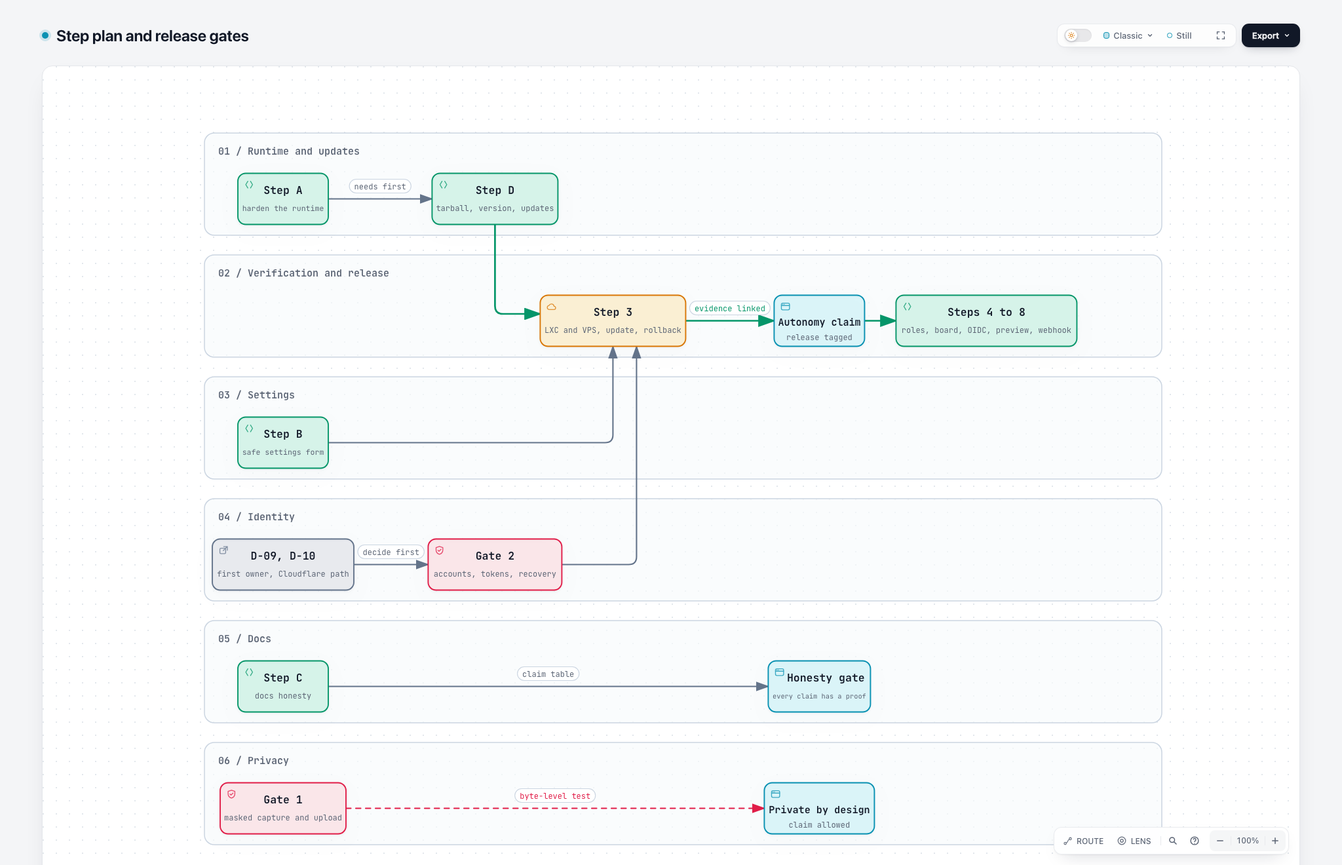
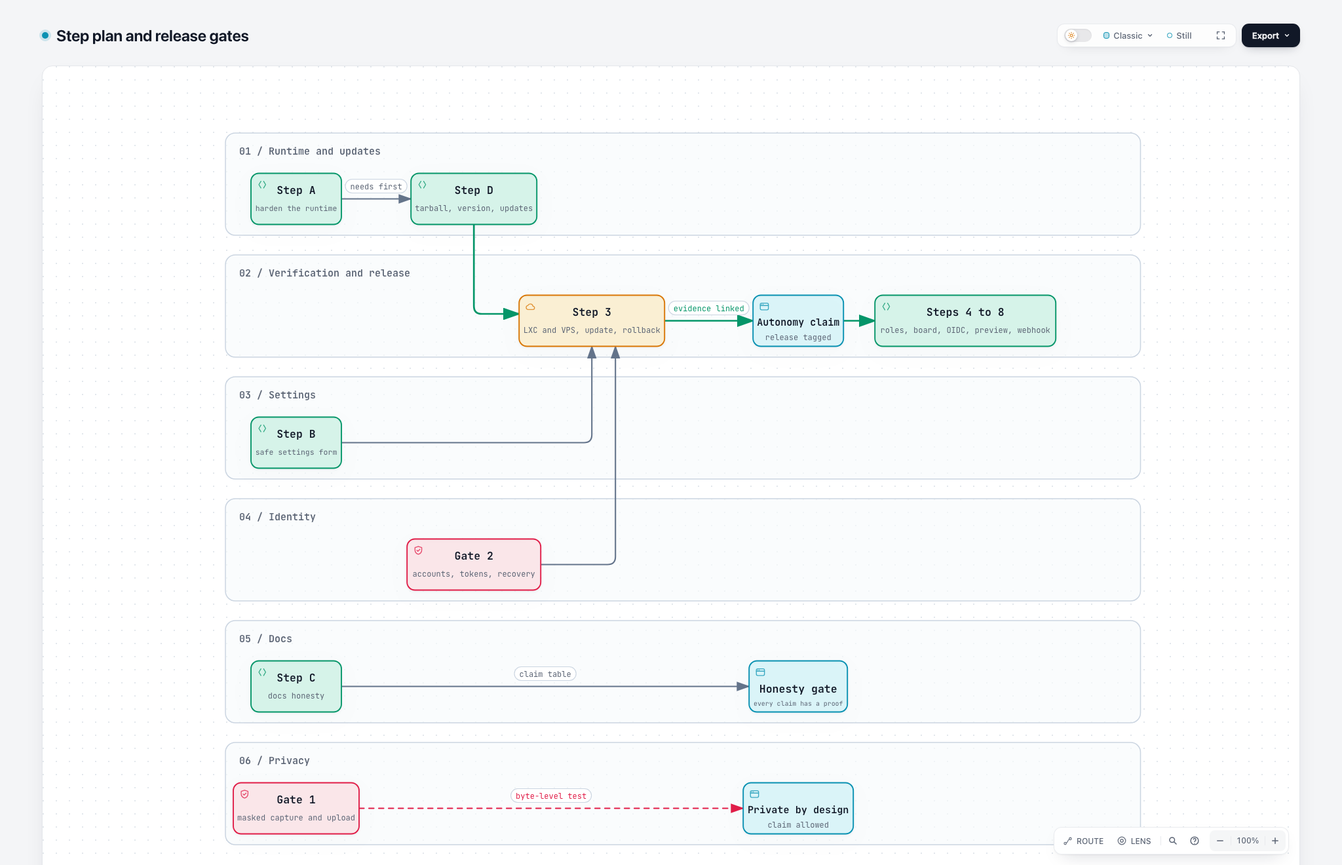
docs(design): settle D-09 and D-10 as S14 and S15
The first owner proves control with a one-time link printed by a host command
(a script with the operator's Cloudflare credentials on Cloudflare), the same
mechanism as recovery, with no static bootstrap secret. Cloudflare Access
stays an optional admin identity on the Cloudflare runtime. Updates the Gate 2
text, J3 and the bootstrap and step plan diagrams (the decision node is gone).
Documentation only.

diff --git a/docs/design/diagrams/step-plan.html b/docs/design/diagrams/step-plan.html
@@ -5203,7 +5203,7 @@ OTHER DEALINGS IN THE FONT SOFTWARE.
     <!-- Main Diagram -->
     <div class="diagram-container" data-detail-level="read"
          data-preset-badge-editorial-plate="ARCHIFY / PLATE 04">
-      <svg viewBox="0 0 1030 900" data-reader-fit="width-first" data-layout-contract="readable-v2" role="img" lang="en" aria-labelledby="archify-diagram-title archify-diagram-description" data-animation="trace" data-preset="classic" data-quality-profile="showcase" data-node-ui="">
+      <svg viewBox="0 0 987 900" data-reader-fit="width-first" data-layout-contract="readable-v2" role="img" lang="en" aria-labelledby="archify-diagram-title archify-diagram-description" data-animation="trace" data-preset="classic" data-quality-profile="showcase" data-node-ui="">
         <title id="archify-diagram-title">Step plan and release gates</title>
         <desc id="archify-diagram-description">A workflow diagram generated by Archify.</desc>
         <!-- Definitions -->
@@ -5250,22 +5250,22 @@ OTHER DEALINGS IN THE FONT SOFTWARE.
         <rect width="100%" height="100%" fill="url(#grid)" />
 
         <!-- Swimlanes -->
-        <rect data-graph-role="structural-frame" data-composition-frame-kind="lane" data-composition-frame-id="lane-0" x="40" y="52" width="974" height="104" rx="10" class="c-lane" stroke-width="1"/>
+        <rect data-graph-role="structural-frame" data-composition-frame-kind="lane" data-composition-frame-id="lane-0" x="40" y="52" width="931" height="104" rx="10" class="c-lane" stroke-width="1"/>
         <text x="54" y="74" class="t-muted" font-size="10" font-weight="600">01 / Runtime and updates</text>
 
-        <rect data-graph-role="structural-frame" data-composition-frame-kind="lane" data-composition-frame-id="lane-1" x="40" y="176" width="974" height="104" rx="10" class="c-lane" stroke-width="1"/>
+        <rect data-graph-role="structural-frame" data-composition-frame-kind="lane" data-composition-frame-id="lane-1" x="40" y="176" width="931" height="104" rx="10" class="c-lane" stroke-width="1"/>
         <text x="54" y="198" class="t-muted" font-size="10" font-weight="600">02 / Verification and release</text>
 
-        <rect data-graph-role="structural-frame" data-composition-frame-kind="lane" data-composition-frame-id="lane-2" x="40" y="300" width="974" height="104" rx="10" class="c-lane" stroke-width="1"/>
+        <rect data-graph-role="structural-frame" data-composition-frame-kind="lane" data-composition-frame-id="lane-2" x="40" y="300" width="931" height="104" rx="10" class="c-lane" stroke-width="1"/>
         <text x="54" y="322" class="t-muted" font-size="10" font-weight="600">03 / Settings</text>
 
-        <rect data-graph-role="structural-frame" data-composition-frame-kind="lane" data-composition-frame-id="lane-3" x="40" y="424" width="974" height="104" rx="10" class="c-lane" stroke-width="1"/>
+        <rect data-graph-role="structural-frame" data-composition-frame-kind="lane" data-composition-frame-id="lane-3" x="40" y="424" width="931" height="104" rx="10" class="c-lane" stroke-width="1"/>
         <text x="54" y="446" class="t-muted" font-size="10" font-weight="600">04 / Identity</text>
 
-        <rect data-graph-role="structural-frame" data-composition-frame-kind="lane" data-composition-frame-id="lane-4" x="40" y="548" width="974" height="104" rx="10" class="c-lane" stroke-width="1"/>
+        <rect data-graph-role="structural-frame" data-composition-frame-kind="lane" data-composition-frame-id="lane-4" x="40" y="548" width="931" height="104" rx="10" class="c-lane" stroke-width="1"/>
         <text x="54" y="570" class="t-muted" font-size="10" font-weight="600">05 / Docs</text>
 
-        <rect data-graph-role="structural-frame" data-composition-frame-kind="lane" data-composition-frame-id="lane-5" x="40" y="672" width="974" height="104" rx="10" class="c-lane" stroke-width="1"/>
+        <rect data-graph-role="structural-frame" data-composition-frame-kind="lane" data-composition-frame-id="lane-5" x="40" y="672" width="931" height="104" rx="10" class="c-lane" stroke-width="1"/>
         <text x="54" y="694" class="t-muted" font-size="10" font-weight="600">06 / Privacy</text>
 
         <!-- Phase headers -->
@@ -5275,185 +5275,168 @@ OTHER DEALINGS IN THE FONT SOFTWARE.
 
 
         <!-- Edge paths -->
-        <path data-edge-from="a" data-edge-to="d" data-edge-label="needs first" data-edge-key="0" data-edge-id="a-d" data-composition-routing="workflow-v2-auto" data-edge-role="" data-composition-points="166,119;271.6,119" d="M 166 119 L 271.6 119" class="a-default" data-animate="edge" style="--step:0" stroke-width="1.4" marker-end="url(#arrowhead)"/>
-        <path data-edge-from="autonomy" data-edge-to="later" data-edge-key="1" data-edge-id="autonomy-later" data-composition-routing="workflow-v2-auto" data-edge-role="" data-composition-points="711.6,243;743.6,243" d="M 711.6 243 L 743.6 243" class="a-emphasis" data-animate="edge" style="--step:3" stroke-width="1.8" marker-end="url(#arrowhead-emphasis)"/>
-        <path data-edge-from="b" data-edge-to="s3" data-edge-key="2" data-edge-id="b-s3" data-composition-routing="workflow-v2-auto" data-edge-role="" data-composition-points="166,367;455.6,367;455.6,269" d="M 166 367 L 447.6 367 Q 455.6 367 455.6 359 L 455.6 269" class="a-default" data-animate="edge" style="--step:7" stroke-width="1.4" marker-end="url(#arrowhead)"/>
-        <path data-edge-from="c" data-edge-to="honesty" data-edge-label="claim table" data-edge-key="3" data-edge-id="c-honesty" data-composition-routing="workflow-v2-auto" data-edge-role="" data-composition-points="166,615;613.6,615" d="M 166 615 L 613.6 615" class="a-default" data-animate="edge" style="--step:8" stroke-width="1.4" marker-end="url(#arrowhead)"/>
-        <path data-edge-from="d" data-edge-to="s3" data-edge-key="4" data-edge-id="d-s3" data-composition-routing="workflow-v2-auto" data-edge-role="" data-composition-points="335.6,145;335.6,236;381.6,236" d="M 335.6 145 L 335.6 228 Q 335.6 236 343.6 236 L 381.6 236" class="a-emphasis" data-animate="edge" style="--step:1" stroke-width="1.8" marker-end="url(#arrowhead-emphasis)"/>
-        <path data-edge-from="dec" data-edge-to="g2" data-edge-label="decide first" data-edge-key="5" data-edge-id="dec-g2" data-composition-routing="workflow-v2-auto" data-edge-role="" data-composition-points="192,491;267.6,491" d="M 192 491 L 267.6 491" class="a-default" data-animate="edge" style="--step:10" stroke-width="1.4" marker-end="url(#arrowhead)"/>
-        <path data-edge-from="g1" data-edge-to="private" data-edge-label="byte-level test" data-edge-key="6" data-edge-id="g1-private" data-composition-routing="workflow-v2-auto" data-edge-role="" data-composition-points="184,739;609.6,739" d="M 184 739 L 609.6 739" class="a-security" data-animate="edge" style="--step:11" stroke-width="1.4" marker-end="url(#arrowhead-security)"/>
-        <path data-edge-from="g2" data-edge-to="s3" data-edge-key="7" data-edge-id="g2-s3" data-composition-routing="workflow-v2-auto" data-edge-role="" data-composition-points="403.6,491;479.6,491;479.6,269" d="M 403.6 491 L 471.6 491 Q 479.6 491 479.6 483 L 479.6 269" class="a-default" data-animate="edge" style="--step:12" stroke-width="1.4" marker-end="url(#arrowhead)"/>
-        <path data-edge-from="s3" data-edge-to="autonomy" data-edge-label="evidence linked" data-edge-key="8" data-edge-id="s3-autonomy" data-composition-routing="workflow-v2-auto" data-edge-role="" data-composition-points="529.6,243;619.6,243" d="M 529.6 243 L 619.6 243" class="a-emphasis" data-animate="edge" style="--step:2" stroke-width="1.8" marker-end="url(#arrowhead-emphasis)"/>
+        <path data-edge-from="a" data-edge-to="d" data-edge-label="needs first" data-edge-key="0" data-edge-id="a-d" data-composition-routing="workflow-v2-auto" data-edge-role="" data-composition-points="158,119;228.8,119" d="M 158 119 L 228.8 119" class="a-default" data-animate="edge" style="--step:0" stroke-width="1.4" marker-end="url(#arrowhead)"/>
+        <path data-edge-from="autonomy" data-edge-to="later" data-edge-key="1" data-edge-id="autonomy-later" data-composition-routing="workflow-v2-auto" data-edge-role="" data-composition-points="668.8,243;700.8,243" d="M 668.8 243 L 700.8 243" class="a-emphasis" data-animate="edge" style="--step:3" stroke-width="1.8" marker-end="url(#arrowhead-emphasis)"/>
+        <path data-edge-from="b" data-edge-to="s3" data-edge-key="2" data-edge-id="b-s3" data-composition-routing="workflow-v2-auto" data-edge-role="" data-composition-points="158,367;412.8,367;412.8,269" d="M 158 367 L 404.8 367 Q 412.8 367 412.8 359 L 412.8 269" class="a-default" data-animate="edge" style="--step:7" stroke-width="1.4" marker-end="url(#arrowhead)"/>
+        <path data-edge-from="c" data-edge-to="honesty" data-edge-label="claim table" data-edge-key="3" data-edge-id="c-honesty" data-composition-routing="workflow-v2-auto" data-edge-role="" data-composition-points="158,615;572.8,615" d="M 158 615 L 572.8 615" class="a-default" data-animate="edge" style="--step:8" stroke-width="1.4" marker-end="url(#arrowhead)"/>
+        <path data-edge-from="d" data-edge-to="s3" data-edge-key="4" data-edge-id="d-s3" data-composition-routing="workflow-v2-auto" data-edge-role="" data-composition-points="292.8,145;292.8,236;338.8,236" d="M 292.8 145 L 292.8 228 Q 292.8 236 300.8 236 L 338.8 236" class="a-emphasis" data-animate="edge" style="--step:1" stroke-width="1.8" marker-end="url(#arrowhead-emphasis)"/>
+        <path data-edge-from="g1" data-edge-to="private" data-edge-label="byte-level test" data-edge-key="5" data-edge-id="g1-private" data-composition-routing="workflow-v2-auto" data-edge-role="" data-composition-points="176,739;566.8,739" d="M 176 739 L 566.8 739" class="a-security" data-animate="edge" style="--step:10" stroke-width="1.4" marker-end="url(#arrowhead-security)"/>
+        <path data-edge-from="g2" data-edge-to="s3" data-edge-key="6" data-edge-id="g2-s3" data-composition-routing="workflow-v2-auto" data-edge-role="" data-composition-points="360.8,491;436.8,491;436.8,269" d="M 360.8 491 L 428.8 491 Q 436.8 491 436.8 483 L 436.8 269" class="a-default" data-animate="edge" style="--step:11" stroke-width="1.4" marker-end="url(#arrowhead)"/>
+        <path data-edge-from="s3" data-edge-to="autonomy" data-edge-label="evidence linked" data-edge-key="7" data-edge-id="s3-autonomy" data-composition-routing="workflow-v2-auto" data-edge-role="" data-composition-points="486.8,243;576.8,243" d="M 486.8 243 L 576.8 243" class="a-emphasis" data-animate="edge" style="--step:2" stroke-width="1.8" marker-end="url(#arrowhead-emphasis)"/>
 
         <!-- Nodes -->
         <g id="node-a" data-node-id="a" data-node-label="Step A" tabindex="0" role="button" aria-label="Focus Step A, harden the runtime, Runtime and updates" aria-pressed="false" data-node-kind="backend" data-node-sublabel="harden the runtime" data-node-context="Runtime and updates">
           <title>Step A · harden the runtime · Runtime and updates</title>
-          <rect x="74" y="93" width="92" height="52" rx="8" class="c-mask"/>
-          <rect x="74" y="93" width="92" height="52" rx="8" class="c-backend" data-animate="node" style="--step:0" stroke-width="1.5"/>
-          <g aria-hidden="true" data-semantic-sigil="backend" class="semantic-sigil s-backend" transform="translate(80 99) scale(0.6875)">
+          <rect x="66" y="93" width="92" height="52" rx="8" class="c-mask"/>
+          <rect x="66" y="93" width="92" height="52" rx="8" class="c-backend" data-animate="node" style="--step:0" stroke-width="1.5"/>
+          <g aria-hidden="true" data-semantic-sigil="backend" class="semantic-sigil s-backend" transform="translate(72 99) scale(0.6875)">
             <path d="M6 3 3 8l3 5M10 3l3 5-3 5"/>
           </g>
-          <text data-node-label="" data-detail-anchor="" x="120" y="114" class="t-primary" font-size="11" font-weight="600" text-anchor="middle">Step A</text>
-          <text data-detail="context" x="120" y="131" class="t-muted" font-size="7.7" text-anchor="middle">harden the runtime</text>
+          <text data-node-label="" data-detail-anchor="" x="112" y="114" class="t-primary" font-size="11" font-weight="600" text-anchor="middle">Step A</text>
+          <text data-detail="context" x="112" y="131" class="t-muted" font-size="7.7" text-anchor="middle">harden the runtime</text>
         </g>
 
         <g id="node-d" data-node-id="d" data-node-label="Step D" tabindex="0" role="button" aria-label="Focus Step D, tarball, version, updates, Runtime and updates" aria-pressed="false" data-node-kind="backend" data-node-sublabel="tarball, version, updates" data-node-context="Runtime and updates">
           <title>Step D · tarball, version, updates · Runtime and updates</title>
-          <rect x="271.6" y="93" width="128" height="52" rx="8" class="c-mask"/>
-          <rect x="271.6" y="93" width="128" height="52" rx="8" class="c-backend" data-animate="node" style="--step:1" stroke-width="1.5"/>
-          <g aria-hidden="true" data-semantic-sigil="backend" class="semantic-sigil s-backend" transform="translate(277.6 99) scale(0.6875)">
+          <rect x="228.8" y="93" width="128" height="52" rx="8" class="c-mask"/>
+          <rect x="228.8" y="93" width="128" height="52" rx="8" class="c-backend" data-animate="node" style="--step:1" stroke-width="1.5"/>
+          <g aria-hidden="true" data-semantic-sigil="backend" class="semantic-sigil s-backend" transform="translate(234.8 99) scale(0.6875)">
             <path d="M6 3 3 8l3 5M10 3l3 5-3 5"/>
           </g>
-          <text data-node-label="" data-detail-anchor="" x="335.6" y="114" class="t-primary" font-size="11" font-weight="600" text-anchor="middle">Step D</text>
-          <text data-detail="context" x="335.6" y="131" class="t-muted" font-size="8" text-anchor="middle">tarball, version, updates</text>
+          <text data-node-label="" data-detail-anchor="" x="292.8" y="114" class="t-primary" font-size="11" font-weight="600" text-anchor="middle">Step D</text>
+          <text data-detail="context" x="292.8" y="131" class="t-muted" font-size="8" text-anchor="middle">tarball, version, updates</text>
         </g>
 
         <g id="node-s3" data-node-id="s3" data-node-label="Step 3" tabindex="0" role="button" aria-label="Focus Step 3, LXC and VPS, update, rollback, Verification and release" aria-pressed="false" data-node-kind="cloud" data-node-sublabel="LXC and VPS, update, rollback" data-node-context="Verification and release">
           <title>Step 3 · LXC and VPS, update, rollback · Verification and release</title>
-          <rect x="381.6" y="217" width="148" height="52" rx="8" class="c-mask"/>
-          <rect x="381.6" y="217" width="148" height="52" rx="8" class="c-cloud" data-animate="node" style="--step:2" stroke-width="1.5"/>
-          <g aria-hidden="true" data-semantic-sigil="cloud" class="semantic-sigil s-cloud" transform="translate(387.6 223) scale(0.6875)">
+          <rect x="338.8" y="217" width="148" height="52" rx="8" class="c-mask"/>
+          <rect x="338.8" y="217" width="148" height="52" rx="8" class="c-cloud" data-animate="node" style="--step:2" stroke-width="1.5"/>
+          <g aria-hidden="true" data-semantic-sigil="cloud" class="semantic-sigil s-cloud" transform="translate(344.8 223) scale(0.6875)">
             <path d="M4.3 12.5h7.3a2.4 2.4 0 0 0 .2-4.8 4 4 0 0 0-7.5-1.3A3.1 3.1 0 0 0 4.3 12.5Z"/>
           </g>
-          <text data-node-label="" data-detail-anchor="" x="455.6" y="238" class="t-primary" font-size="11" font-weight="600" text-anchor="middle">Step 3</text>
-          <text data-detail="context" x="455.6" y="255" class="t-muted" font-size="8" text-anchor="middle">LXC and VPS, update, rollback</text>
+          <text data-node-label="" data-detail-anchor="" x="412.8" y="238" class="t-primary" font-size="11" font-weight="600" text-anchor="middle">Step 3</text>
+          <text data-detail="context" x="412.8" y="255" class="t-muted" font-size="8" text-anchor="middle">LXC and VPS, update, rollback</text>
         </g>
 
         <g id="node-autonomy" data-node-id="autonomy" data-node-label="Autonomy claim" tabindex="0" role="button" aria-label="Focus Autonomy claim, release tagged, Verification and release" aria-pressed="false" data-node-kind="frontend" data-node-sublabel="release tagged" data-node-context="Verification and release">
           <title>Autonomy claim · release tagged · Verification and release</title>
-          <rect x="619.6" y="217" width="92" height="52" rx="8" class="c-mask"/>
-          <rect x="619.6" y="217" width="92" height="52" rx="8" class="c-frontend" data-animate="node" style="--step:3" stroke-width="1.5"/>
-          <g aria-hidden="true" data-semantic-sigil="frontend" class="semantic-sigil s-frontend" transform="translate(625.6 223) scale(0.6875)">
+          <rect x="576.8" y="217" width="92" height="52" rx="8" class="c-mask"/>
+          <rect x="576.8" y="217" width="92" height="52" rx="8" class="c-frontend" data-animate="node" style="--step:3" stroke-width="1.5"/>
+          <g aria-hidden="true" data-semantic-sigil="frontend" class="semantic-sigil s-frontend" transform="translate(582.8 223) scale(0.6875)">
             <rect x="2" y="3" width="12" height="10" rx="2"/>
             <path d="M2 6.5h12"/>
             <circle cx="4.1" cy="4.8" r=".7" class="sigil-fill"/>
             <circle cx="6.3" cy="4.8" r=".7" class="sigil-fill"/>
           </g>
-          <text data-node-label="" data-detail-anchor="" x="665.6" y="248" class="t-primary" font-size="10" font-weight="600" text-anchor="middle">Autonomy claim</text>
-          <text data-detail="context" x="665.6" y="262.6" class="t-muted" font-size="8" text-anchor="middle">release tagged</text>
+          <text data-node-label="" data-detail-anchor="" x="622.8" y="248" class="t-primary" font-size="10" font-weight="600" text-anchor="middle">Autonomy claim</text>
+          <text data-detail="context" x="622.8" y="262.6" class="t-muted" font-size="8" text-anchor="middle">release tagged</text>
         </g>
 
         <g id="node-later" data-node-id="later" data-node-label="Steps 4 to 8" tabindex="0" role="button" aria-label="Focus Steps 4 to 8, roles, board, OIDC, preview, webhook, Verification and release" aria-pressed="false" data-node-kind="backend" data-node-sublabel="roles, board, OIDC, preview, webhook" data-node-context="Verification and release">
           <title>Steps 4 to 8 · roles, board, OIDC, preview, webhook · Verification and release</title>
-          <rect x="743.6" y="217" width="184" height="52" rx="8" class="c-mask"/>
-          <rect x="743.6" y="217" width="184" height="52" rx="8" class="c-backend" data-animate="node" style="--step:4" stroke-width="1.5"/>
-          <g aria-hidden="true" data-semantic-sigil="backend" class="semantic-sigil s-backend" transform="translate(749.6 223) scale(0.6875)">
+          <rect x="700.8" y="217" width="184" height="52" rx="8" class="c-mask"/>
+          <rect x="700.8" y="217" width="184" height="52" rx="8" class="c-backend" data-animate="node" style="--step:4" stroke-width="1.5"/>
+          <g aria-hidden="true" data-semantic-sigil="backend" class="semantic-sigil s-backend" transform="translate(706.8 223) scale(0.6875)">
             <path d="M6 3 3 8l3 5M10 3l3 5-3 5"/>
           </g>
-          <text data-node-label="" data-detail-anchor="" x="835.6" y="238" class="t-primary" font-size="11" font-weight="600" text-anchor="middle">Steps 4 to 8</text>
-          <text data-detail="context" x="835.6" y="255" class="t-muted" font-size="8" text-anchor="middle">roles, board, OIDC, preview, webhook</text>
+          <text data-node-label="" data-detail-anchor="" x="792.8" y="238" class="t-primary" font-size="11" font-weight="600" text-anchor="middle">Steps 4 to 8</text>
+          <text data-detail="context" x="792.8" y="255" class="t-muted" font-size="8" text-anchor="middle">roles, board, OIDC, preview, webhook</text>
         </g>
 
         <g id="node-b" data-node-id="b" data-node-label="Step B" tabindex="0" role="button" aria-label="Focus Step B, safe settings form, Settings" aria-pressed="false" data-node-kind="backend" data-node-sublabel="safe settings form" data-node-context="Settings">
           <title>Step B · safe settings form · Settings</title>
-          <rect x="74" y="341" width="92" height="52" rx="8" class="c-mask"/>
-          <rect x="74" y="341" width="92" height="52" rx="8" class="c-backend" data-animate="node" style="--step:10" stroke-width="1.5"/>
-          <g aria-hidden="true" data-semantic-sigil="backend" class="semantic-sigil s-backend" transform="translate(80 347) scale(0.6875)">
+          <rect x="66" y="341" width="92" height="52" rx="8" class="c-mask"/>
+          <rect x="66" y="341" width="92" height="52" rx="8" class="c-backend" data-animate="node" style="--step:10" stroke-width="1.5"/>
+          <g aria-hidden="true" data-semantic-sigil="backend" class="semantic-sigil s-backend" transform="translate(72 347) scale(0.6875)">
             <path d="M6 3 3 8l3 5M10 3l3 5-3 5"/>
           </g>
-          <text data-node-label="" data-detail-anchor="" x="120" y="362" class="t-primary" font-size="11" font-weight="600" text-anchor="middle">Step B</text>
-          <text data-detail="context" x="120" y="379" class="t-muted" font-size="7.7" text-anchor="middle">safe settings form</text>
-        </g>
-
-        <g id="node-dec" data-node-id="dec" data-node-label="D-09, D-10" tabindex="0" role="button" aria-label="Focus D-09, D-10, first owner, Cloudflare path, Identity" aria-pressed="false" data-node-kind="external" data-node-sublabel="first owner, Cloudflare path" data-node-context="Identity">
-          <title>D-09, D-10 · first owner, Cloudflare path · Identity</title>
-          <rect x="48" y="465" width="144" height="52" rx="8" class="c-mask"/>
-          <rect x="48" y="465" width="144" height="52" rx="8" class="c-external" data-animate="node" style="--step:11" stroke-width="1.5"/>
-          <g aria-hidden="true" data-semantic-sigil="external" class="semantic-sigil s-external" transform="translate(54 471) scale(0.6875)">
-            <rect x="2.5" y="5" width="8.5" height="8" rx="1.5"/>
-            <path d="M8 2.5h5.5V8M13.5 2.5 7.5 8.5"/>
-          </g>
-          <text data-node-label="" data-detail-anchor="" x="120" y="486" class="t-primary" font-size="11" font-weight="600" text-anchor="middle">D-09, D-10</text>
-          <text data-detail="context" x="120" y="503" class="t-muted" font-size="8" text-anchor="middle">first owner, Cloudflare path</text>
+          <text data-node-label="" data-detail-anchor="" x="112" y="362" class="t-primary" font-size="11" font-weight="600" text-anchor="middle">Step B</text>
+          <text data-detail="context" x="112" y="379" class="t-muted" font-size="7.7" text-anchor="middle">safe settings form</text>
         </g>
 
         <g id="node-g2" data-node-id="g2" data-node-label="Gate 2" tabindex="0" role="button" aria-label="Focus Gate 2, accounts, tokens, recovery, Identity" aria-pressed="false" data-node-kind="security" data-node-sublabel="accounts, tokens, recovery" data-node-context="Identity">
           <title>Gate 2 · accounts, tokens, recovery · Identity</title>
-          <rect x="267.6" y="465" width="136" height="52" rx="8" class="c-mask"/>
-          <rect x="267.6" y="465" width="136" height="52" rx="8" class="c-security" data-animate="node" style="--step:12" stroke-width="1.5"/>
-          <g aria-hidden="true" data-semantic-sigil="security" class="semantic-sigil s-security" transform="translate(273.6 471) scale(0.6875)">
+          <rect x="224.8" y="465" width="136" height="52" rx="8" class="c-mask"/>
+          <rect x="224.8" y="465" width="136" height="52" rx="8" class="c-security" data-animate="node" style="--step:11" stroke-width="1.5"/>
+          <g aria-hidden="true" data-semantic-sigil="security" class="semantic-sigil s-security" transform="translate(230.8 471) scale(0.6875)">
             <path d="M8 2.2 13 4v3.5c0 3.1-1.8 5.4-5 6.5-3.2-1.1-5-3.4-5-6.5V4Z"/>
             <path d="m5.8 8 1.5 1.5 3-3"/>
           </g>
-          <text data-node-label="" data-detail-anchor="" x="335.6" y="486" class="t-primary" font-size="11" font-weight="600" text-anchor="middle">Gate 2</text>
-          <text data-detail="context" x="335.6" y="503" class="t-muted" font-size="8" text-anchor="middle">accounts, tokens, recovery</text>
+          <text data-node-label="" data-detail-anchor="" x="292.8" y="486" class="t-primary" font-size="11" font-weight="600" text-anchor="middle">Gate 2</text>
+          <text data-detail="context" x="292.8" y="503" class="t-muted" font-size="8" text-anchor="middle">accounts, tokens, recovery</text>
         </g>
 
         <g id="node-c" data-node-id="c" data-node-label="Step C" tabindex="0" role="button" aria-label="Focus Step C, docs honesty, Docs" aria-pressed="false" data-node-kind="backend" data-node-sublabel="docs honesty" data-node-context="Docs">
           <title>Step C · docs honesty · Docs</title>
-          <rect x="74" y="589" width="92" height="52" rx="8" class="c-mask"/>
-          <rect x="74" y="589" width="92" height="52" rx="8" class="c-backend" data-animate="node" style="--step:12" stroke-width="1.5"/>
-          <g aria-hidden="true" data-semantic-sigil="backend" class="semantic-sigil s-backend" transform="translate(80 595) scale(0.6875)">
+          <rect x="66" y="589" width="92" height="52" rx="8" class="c-mask"/>
+          <rect x="66" y="589" width="92" height="52" rx="8" class="c-backend" data-animate="node" style="--step:12" stroke-width="1.5"/>
+          <g aria-hidden="true" data-semantic-sigil="backend" class="semantic-sigil s-backend" transform="translate(72 595) scale(0.6875)">
             <path d="M6 3 3 8l3 5M10 3l3 5-3 5"/>
           </g>
-          <text data-node-label="" data-detail-anchor="" x="120" y="610" class="t-primary" font-size="11" font-weight="600" text-anchor="middle">Step C</text>
-          <text data-detail="context" x="120" y="627" class="t-muted" font-size="8" text-anchor="middle">docs honesty</text>
+          <text data-node-label="" data-detail-anchor="" x="112" y="610" class="t-primary" font-size="11" font-weight="600" text-anchor="middle">Step C</text>
+          <text data-detail="context" x="112" y="627" class="t-muted" font-size="8" text-anchor="middle">docs honesty</text>
         </g>
 
         <g id="node-honesty" data-node-id="honesty" data-node-label="Honesty gate" tabindex="0" role="button" aria-label="Focus Honesty gate, every claim has a proof, Docs" aria-pressed="false" data-node-kind="frontend" data-node-sublabel="every claim has a proof" data-node-context="Docs">
           <title>Honesty gate · every claim has a proof · Docs</title>
-          <rect x="613.6" y="589" width="104" height="52" rx="8" class="c-mask"/>
-          <rect x="613.6" y="589" width="104" height="52" rx="8" class="c-frontend" data-animate="node" style="--step:12" stroke-width="1.5"/>
-          <g aria-hidden="true" data-semantic-sigil="frontend" class="semantic-sigil s-frontend" transform="translate(619.6 595) scale(0.6875)">
+          <rect x="572.8" y="589" width="100" height="52" rx="8" class="c-mask"/>
+          <rect x="572.8" y="589" width="100" height="52" rx="8" class="c-frontend" data-animate="node" style="--step:12" stroke-width="1.5"/>
+          <g aria-hidden="true" data-semantic-sigil="frontend" class="semantic-sigil s-frontend" transform="translate(578.8 595) scale(0.6875)">
             <rect x="2" y="3" width="12" height="10" rx="2"/>
             <path d="M2 6.5h12"/>
             <circle cx="4.1" cy="4.8" r=".7" class="sigil-fill"/>
             <circle cx="6.3" cy="4.8" r=".7" class="sigil-fill"/>
           </g>
-          <text data-node-label="" data-detail-anchor="" x="672.2" y="610" class="t-primary" font-size="11" font-weight="600" text-anchor="middle">Honesty gate</text>
-          <text data-detail="context" x="665.6" y="627" class="t-muted" font-size="6.9" text-anchor="middle">every claim has a proof</text>
+          <text data-node-label="" data-detail-anchor="" x="622.8" y="621.2" class="t-primary" font-size="11" font-weight="600" text-anchor="middle">Honesty gate</text>
+          <text data-detail="context" x="622.8" y="634.5" class="t-muted" font-size="6.6" text-anchor="middle">every claim has a proof</text>
         </g>
 
         <g id="node-g1" data-node-id="g1" data-node-label="Gate 1" tabindex="0" role="button" aria-label="Focus Gate 1, masked capture and upload, Privacy" aria-pressed="false" data-node-kind="security" data-node-sublabel="masked capture and upload" data-node-context="Privacy">
           <title>Gate 1 · masked capture and upload · Privacy</title>
-          <rect x="56" y="713" width="128" height="52" rx="8" class="c-mask"/>
-          <rect x="56" y="713" width="128" height="52" rx="8" class="c-security" data-animate="node" style="--step:12" stroke-width="1.5"/>
-          <g aria-hidden="true" data-semantic-sigil="security" class="semantic-sigil s-security" transform="translate(62 719) scale(0.6875)">
+          <rect x="48" y="713" width="128" height="52" rx="8" class="c-mask"/>
+          <rect x="48" y="713" width="128" height="52" rx="8" class="c-security" data-animate="node" style="--step:12" stroke-width="1.5"/>
+          <g aria-hidden="true" data-semantic-sigil="security" class="semantic-sigil s-security" transform="translate(54 719) scale(0.6875)">
             <path d="M8 2.2 13 4v3.5c0 3.1-1.8 5.4-5 6.5-3.2-1.1-5-3.4-5-6.5V4Z"/>
             <path d="m5.8 8 1.5 1.5 3-3"/>
           </g>
-          <text data-node-label="" data-detail-anchor="" x="120" y="734" class="t-primary" font-size="11" font-weight="600" text-anchor="middle">Gate 1</text>
-          <text data-detail="context" x="120" y="751" class="t-muted" font-size="8" text-anchor="middle">masked capture and upload</text>
+          <text data-node-label="" data-detail-anchor="" x="112" y="734" class="t-primary" font-size="11" font-weight="600" text-anchor="middle">Gate 1</text>
+          <text data-detail="context" x="112" y="751" class="t-muted" font-size="8" text-anchor="middle">masked capture and upload</text>
         </g>
 
         <g id="node-private" data-node-id="private" data-node-label="Private by design" tabindex="0" role="button" aria-label="Focus Private by design, claim allowed, Privacy" aria-pressed="false" data-node-kind="frontend" data-node-sublabel="claim allowed" data-node-context="Privacy">
           <title>Private by design · claim allowed · Privacy</title>
-          <rect x="609.6" y="713" width="112" height="52" rx="8" class="c-mask"/>
-          <rect x="609.6" y="713" width="112" height="52" rx="8" class="c-frontend" data-animate="node" style="--step:12" stroke-width="1.5"/>
-          <g aria-hidden="true" data-semantic-sigil="frontend" class="semantic-sigil s-frontend" transform="translate(615.6 719) scale(0.6875)">
+          <rect x="566.8" y="713" width="112" height="52" rx="8" class="c-mask"/>
+          <rect x="566.8" y="713" width="112" height="52" rx="8" class="c-frontend" data-animate="node" style="--step:12" stroke-width="1.5"/>
+          <g aria-hidden="true" data-semantic-sigil="frontend" class="semantic-sigil s-frontend" transform="translate(572.8 719) scale(0.6875)">
             <rect x="2" y="3" width="12" height="10" rx="2"/>
             <path d="M2 6.5h12"/>
             <circle cx="4.1" cy="4.8" r=".7" class="sigil-fill"/>
             <circle cx="6.3" cy="4.8" r=".7" class="sigil-fill"/>
           </g>
-          <text data-node-label="" data-detail-anchor="" x="665.6" y="744.2" class="t-primary" font-size="10.1" font-weight="600" text-anchor="middle">Private by design</text>
-          <text data-detail="context" x="665.6" y="758.9" class="t-muted" font-size="8" text-anchor="middle">claim allowed</text>
+          <text data-node-label="" data-detail-anchor="" x="622.8" y="744.2" class="t-primary" font-size="10.1" font-weight="600" text-anchor="middle">Private by design</text>
+          <text data-detail="context" x="622.8" y="758.9" class="t-muted" font-size="8" text-anchor="middle">claim allowed</text>
         </g>
 
         <!-- Edge labels -->
         <g data-detail="context" data-edge-from="a" data-edge-to="d" data-edge-label="needs first" data-edge-key="0" data-edge-id="a-d">
-          <rect x="187.4" y="99" width="62.8" height="14" rx="3" class="c-mask"/>
-          <text x="218.8" y="109" class="t-muted" font-size="8" text-anchor="middle">needs first</text>
+          <rect x="162" y="99" width="62.8" height="14" rx="3" class="c-mask"/>
+          <text x="193.4" y="109" class="t-muted" font-size="8" text-anchor="middle">needs first</text>
         </g>
 
 
         <g data-detail="context" data-edge-from="c" data-edge-to="honesty" data-edge-label="claim table" data-edge-key="3" data-edge-id="c-honesty">
-          <rect x="358.40000000000003" y="595" width="62.8" height="14" rx="3" class="c-mask"/>
-          <text x="389.8" y="605" class="t-muted" font-size="8" text-anchor="middle">claim table</text>
+          <rect x="334" y="595" width="62.8" height="14" rx="3" class="c-mask"/>
+          <text x="365.4" y="605" class="t-muted" font-size="8" text-anchor="middle">claim table</text>
         </g>
 
-        <g data-detail="context" data-edge-from="dec" data-edge-to="g2" data-edge-label="decide first" data-edge-key="5" data-edge-id="dec-g2">
-          <rect x="196" y="471" width="67.6" height="14" rx="3" class="c-mask"/>
-          <text x="229.8" y="481" class="t-muted" font-size="8" text-anchor="middle">decide first</text>
-        </g>
-        <g data-detail="context" data-edge-from="g1" data-edge-to="private" data-edge-label="byte-level test" data-edge-key="6" data-edge-id="g1-private">
-          <rect x="355.8" y="719" width="82" height="14" rx="3" class="c-mask"/>
-          <text x="396.8" y="729" class="t-edge-security" font-size="8" text-anchor="middle">byte-level test</text>
+        <g data-detail="context" data-edge-from="g1" data-edge-to="private" data-edge-label="byte-level test" data-edge-key="5" data-edge-id="g1-private">
+          <rect x="330.4" y="719" width="82" height="14" rx="3" class="c-mask"/>
+          <text x="371.4" y="729" class="t-edge-security" font-size="8" text-anchor="middle">byte-level test</text>
         </g>
 
-        <g data-detail="context" data-edge-from="s3" data-edge-to="autonomy" data-edge-label="evidence linked" data-edge-key="8" data-edge-id="s3-autonomy">
-          <rect x="533.6" y="223" width="82" height="14" rx="3" class="c-mask"/>
-          <text x="574.6" y="233" class="t-edge-emphasis" font-size="8" text-anchor="middle">evidence linked</text>
+        <g data-detail="context" data-edge-from="s3" data-edge-to="autonomy" data-edge-label="evidence linked" data-edge-key="7" data-edge-id="s3-autonomy">
+          <rect x="490.79999999999995" y="223" width="82" height="14" rx="3" class="c-mask"/>
+          <text x="531.8" y="233" class="t-edge-emphasis" font-size="8" text-anchor="middle">evidence linked</text>
         </g>
 
         <!-- Legend -->
@@ -5483,7 +5466,7 @@ OTHER DEALINGS IN THE FONT SOFTWARE.
             <rect x="514" y="812" width="14" height="9" rx="2" class="c-cloud" stroke-width="1"/>
             <text x="536" y="820" class="t-muted" font-size="7.5" font-weight="500">Verification</text>
           </g>
-          <g data-legend-semantic-kind="external" data-legend-kind="external" data-legend-label="Owner decision" data-legend-x="620" data-legend-baseline="820" data-legend-width="109">
+          <g data-legend-semantic-kind="external" data-legend-x="620" data-legend-baseline="820" data-legend-width="88">
             <rect x="620" y="812" width="14" height="9" rx="2" class="c-external" stroke-width="1"/>
             <text x="642" y="820" class="t-muted" font-size="7.5" font-weight="500">Owner decision</text>
           </g>

diff --git a/docs/design/diagrams/gate2-bootstrap-sequence.html b/docs/design/diagrams/gate2-bootstrap-sequence.html
@@ -5682,11 +5682,12 @@ OTHER DEALINGS IN THE FONT SOFTWARE.
       <div class="card">
         <div class="card-header">
           <div class="card-dot amber"></div>
-          <h3>Assumptions</h3>
+          <h3>Decided and open</h3>
         </div>
         <ul>
-          <li>D-09 as recommended: a one-time link from a host command, so no static secret remains</li>
+          <li>S14 decided: a one-time link from a host command, so no static secret remains</li>
           <li>Passkeys need HTTPS or localhost. The relying party ID follows FK_PUBLIC_URL</li>
+          <li>Command name and token lifetime are decided in the PR</li>
         </ul>
       </div>
     </div>

diff --git a/docs/design/autonomous-admin-plan.md b/docs/design/autonomous-admin-plan.md
@@ -112,14 +112,14 @@ Each step is one reviewable PR (or a small series) with its own tests and docs. 
 ### Gate 2: local accounts and recovery (blocks the "autonomous" claim)
 
 - **Why:** without it the only credential is a shared static token that can be locked out by anyone.
-- **Capabilities:** sessions with CSRF protection, bootstrap and recovery by a one-time link from a host command (D-09), scoped API tokens for scripts and agents (created by an owner, hashed at rest, shown once, revocable), `ADMIN_TOKEN` ends once the first owner exists, a D1 design for the atomic owner claim and one-time tokens, a recovery path for Cloudflare (a script run with the operator's Cloudflare credentials), passkeys through a maintained WebAuthn library, last-owner protection, revocation, admin images through the session, a threat model in `docs/SECURITY.md`.
-- **Constraints:** no hand-written protocol. Passkeys need HTTPS or localhost, and the relying party ID follows `FK_PUBLIC_URL`, which then cannot be changed in the UI. D-02 and D-03 are decided (S11, S12). Decide D-09 and D-10 first.
+- **Capabilities:** sessions with CSRF protection, bootstrap and recovery by a one-time link from a host command (S14), `ADMIN_TOKEN` no longer needed to start, scoped API tokens for scripts and agents (created by an owner, hashed at rest, shown once, revocable), `ADMIN_TOKEN` ends once the first owner exists, a D1 design for the atomic owner claim and one-time tokens, a recovery path for Cloudflare (a script run with the operator's Cloudflare credentials), Cloudflare Access kept as an optional identity on that runtime (S15), passkeys through a maintained WebAuthn library, last-owner protection, revocation, admin images through the session, a threat model in `docs/SECURITY.md`.
+- **Constraints:** no hand-written protocol. Passkeys need HTTPS or localhost, and the relying party ID follows `FK_PUBLIC_URL`, which then cannot be changed in the UI. D-02, D-03, D-09 and D-10 are decided (S11, S12, S14, S15).
 - **Non-goals:** roles beyond owner and member, OIDC, public sign-up.
 - **Success signals:** concurrent bootstrap yields one owner. A virtual authenticator completes enrollment and sign-in. A recovery drill works on a clean instance. A valid login is never blocked by other people's failed attempts, with and without a proxy. The old `ADMIN_TOKEN` is refused after bootstrap and a scoped token works for automation. One conformance suite runs bootstrap, sign-in and recovery on SQLite and on D1.
 
 ![First owner bootstrap](diagrams/gate2-bootstrap-sequence.png)
 
-[Open the bootstrap sequence](diagrams/gate2-bootstrap-sequence.html). The other Gate 2 flows are [sign-in](diagrams/gate2-signin-sequence.html), [recovery](diagrams/gate2-recovery-sequence.html), [scoped tokens](diagrams/gate2-token-sequence.html) and [account states](diagrams/gate2-account-lifecycle.html). They are planned designs. They follow the decisions S11 and S12 and assume D-09 as recommended. Token lifetime, command name and cookie attributes are decided in the PR.
+[Open the bootstrap sequence](diagrams/gate2-bootstrap-sequence.html). The other Gate 2 flows are [sign-in](diagrams/gate2-signin-sequence.html), [recovery](diagrams/gate2-recovery-sequence.html), [scoped tokens](diagrams/gate2-token-sequence.html) and [account states](diagrams/gate2-account-lifecycle.html). They are planned designs. They follow the decisions S11, S12, S14 and S15. Token lifetime, command name and cookie attributes are decided in the PR.
 
 ### Step D: release tarball, version and updates
 

diff --git a/docs/design/scope.md b/docs/design/scope.md
@@ -98,6 +98,8 @@ Settled decisions:
 | S11 | `ADMIN_TOKEN` is replaced by accounts. Once the first owner exists it no longer grants access. Scripts and agents use scoped API tokens that an owner creates, so scoped tokens move from Step 4 into Gate 2 | Owner, 2026-11-10 (D-02) |
 | S12 | Local accounts exist on both runtimes (SQLite and D1) and one conformance suite covers them. Gate 2 gains a D1 design and a recovery path for Cloudflare | Owner, 2026-11-10 (D-03) |
 | S13 | Cloudflare is the managed path for operators who do not want to host anything. The Node runtime is the self-hosted path and runs on any Linux host, for example at Hetzner | Owner, 2026-11-10 |
+| S14 | The first owner proves control with a one-time link printed by a host command. On Cloudflare a script run with the operator's Cloudflare credentials prints it. It is the same mechanism as recovery. No static bootstrap secret remains, and the server stops needing `ADMIN_TOKEN` to start once Gate 2 ships | Owner, 2026-11-10 (D-09) |
+| S15 | Cloudflare Access stays an accepted admin identity on the Cloudflare runtime beside accounts, and stays optional. ADR-015 keeps building MCP consent on it | Owner, 2026-11-10 (D-10) |
 
 Open decisions. Each recommendation is mine and needs the owner's answer.
 
@@ -108,7 +110,5 @@ Open decisions. Each recommendation is mine and needs the owner's answer.
 | D-05 | Does the board need an "in progress" lane? | Not yet. Three states first. A fourth needs an expand-only schema plan and a fix in `queries.ts` |
 | D-06 | Which Node floor? | 24 LTS everywhere |
 | D-07 | Is masking enforced or optional per project? | Optional flag first, default on for new projects after the widget change has shipped for one release |
-| D-09 | How does the very first owner prove control now that the token is replaced? | A one-time link printed by a host command (on Cloudflare by a script run with the operator's Cloudflare credentials). It is the same mechanism as recovery, so no static secret remains. The alternative keeps `ADMIN_TOKEN` as a bootstrap-only secret until the first owner exists |
-| D-10 | Does Cloudflare Access stay an accepted admin identity on the Cloudflare runtime beside accounts? | Yes. ADR-015 builds MCP consent on Access, and Access stays optional for operators who already use it |
 
 Co-created by Michel with NORA (AI Agent)

diff --git a/docs/design/journeys.md b/docs/design/journeys.md
@@ -56,7 +56,7 @@ Scope and non-goals are in [scope.md](scope.md). The steps that close the gaps a
 ## J3 Bootstrap the first owner
 
 - **Goal:** the first person to reach a fresh instance can become owner only if they control the installation.
-- **Steps:** the operator proves control with a one-time link from a host command (D-09), registers a passkey, the instance records exactly one owner. `ADMIN_TOKEN` grants nothing afterwards (S11).
+- **Steps:** the operator proves control with a one-time link from a host command (S14), registers a passkey, the instance records exactly one owner. `ADMIN_TOKEN` grants nothing afterwards (S11).
 - **Guarantees:** two simultaneous attempts produce one owner. No public first-user route exists. The last owner cannot be removed or demoted.
 - **Failure paths:** a second browser races the first, the passkey ceremony fails halfway, the public URL changes after enrollment (passkeys bind to it).
 - **Evidence:** integration tests with concurrent requests, a Playwright virtual authenticator, a threat model section in `docs/SECURITY.md`.
